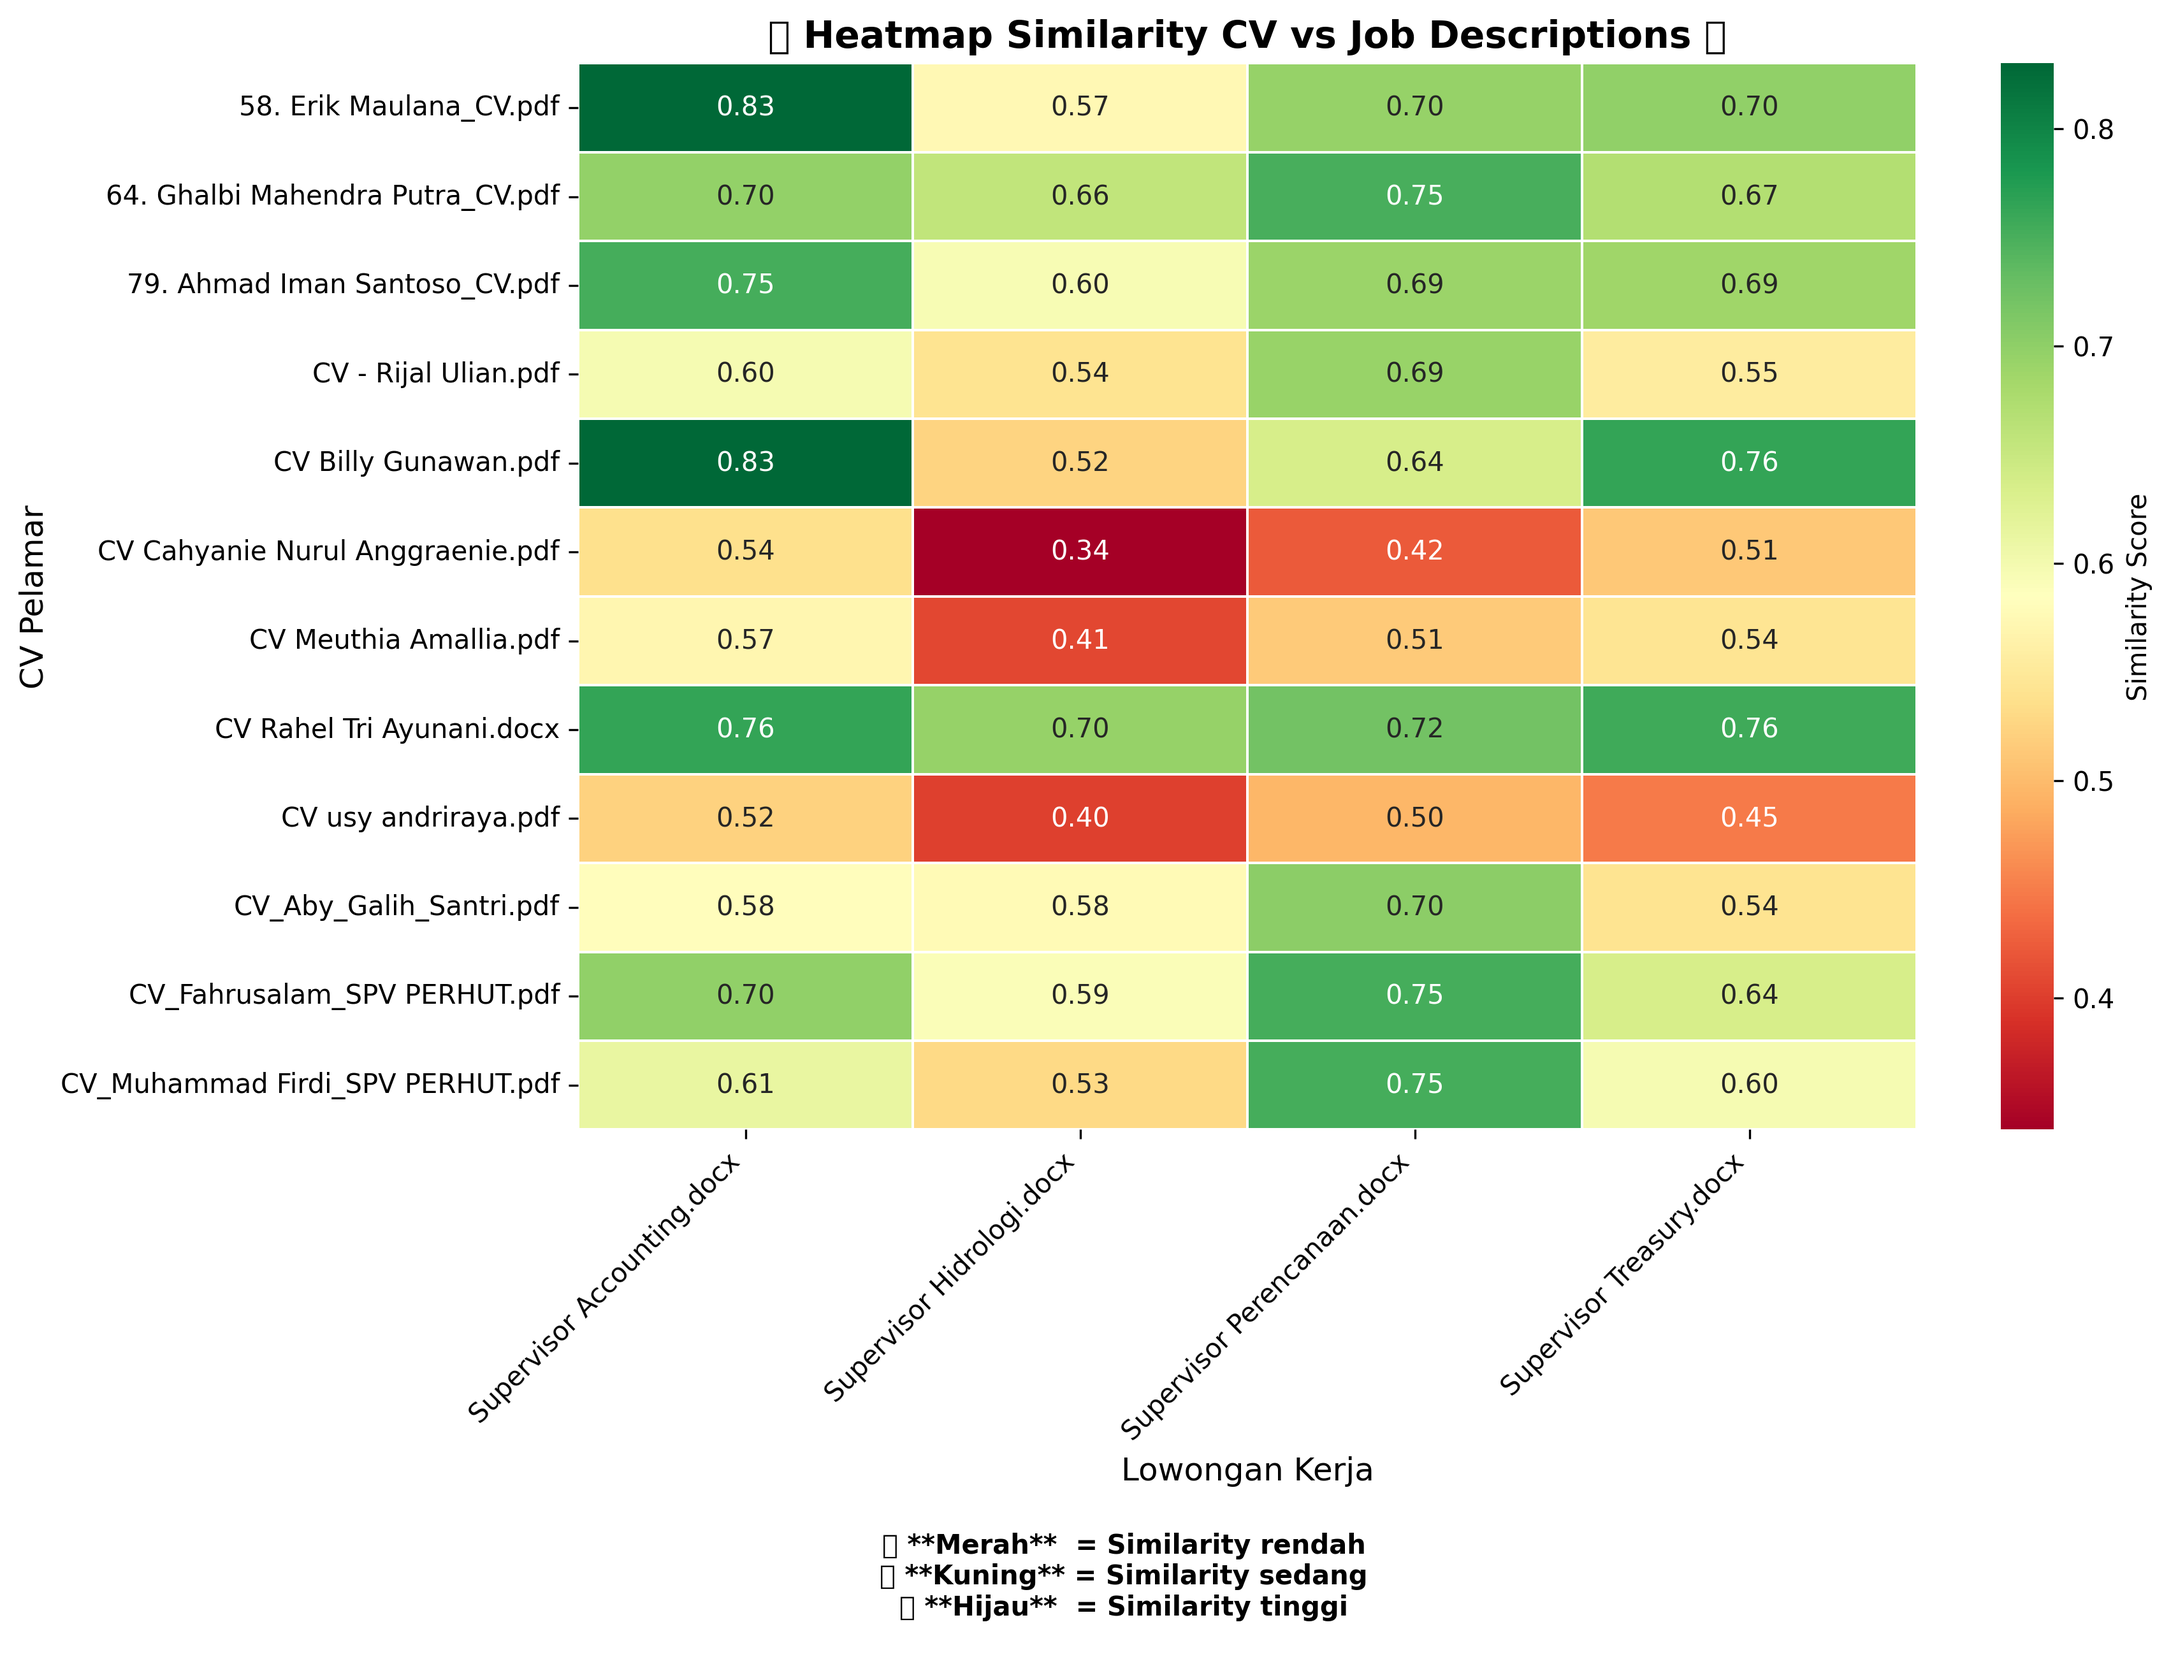
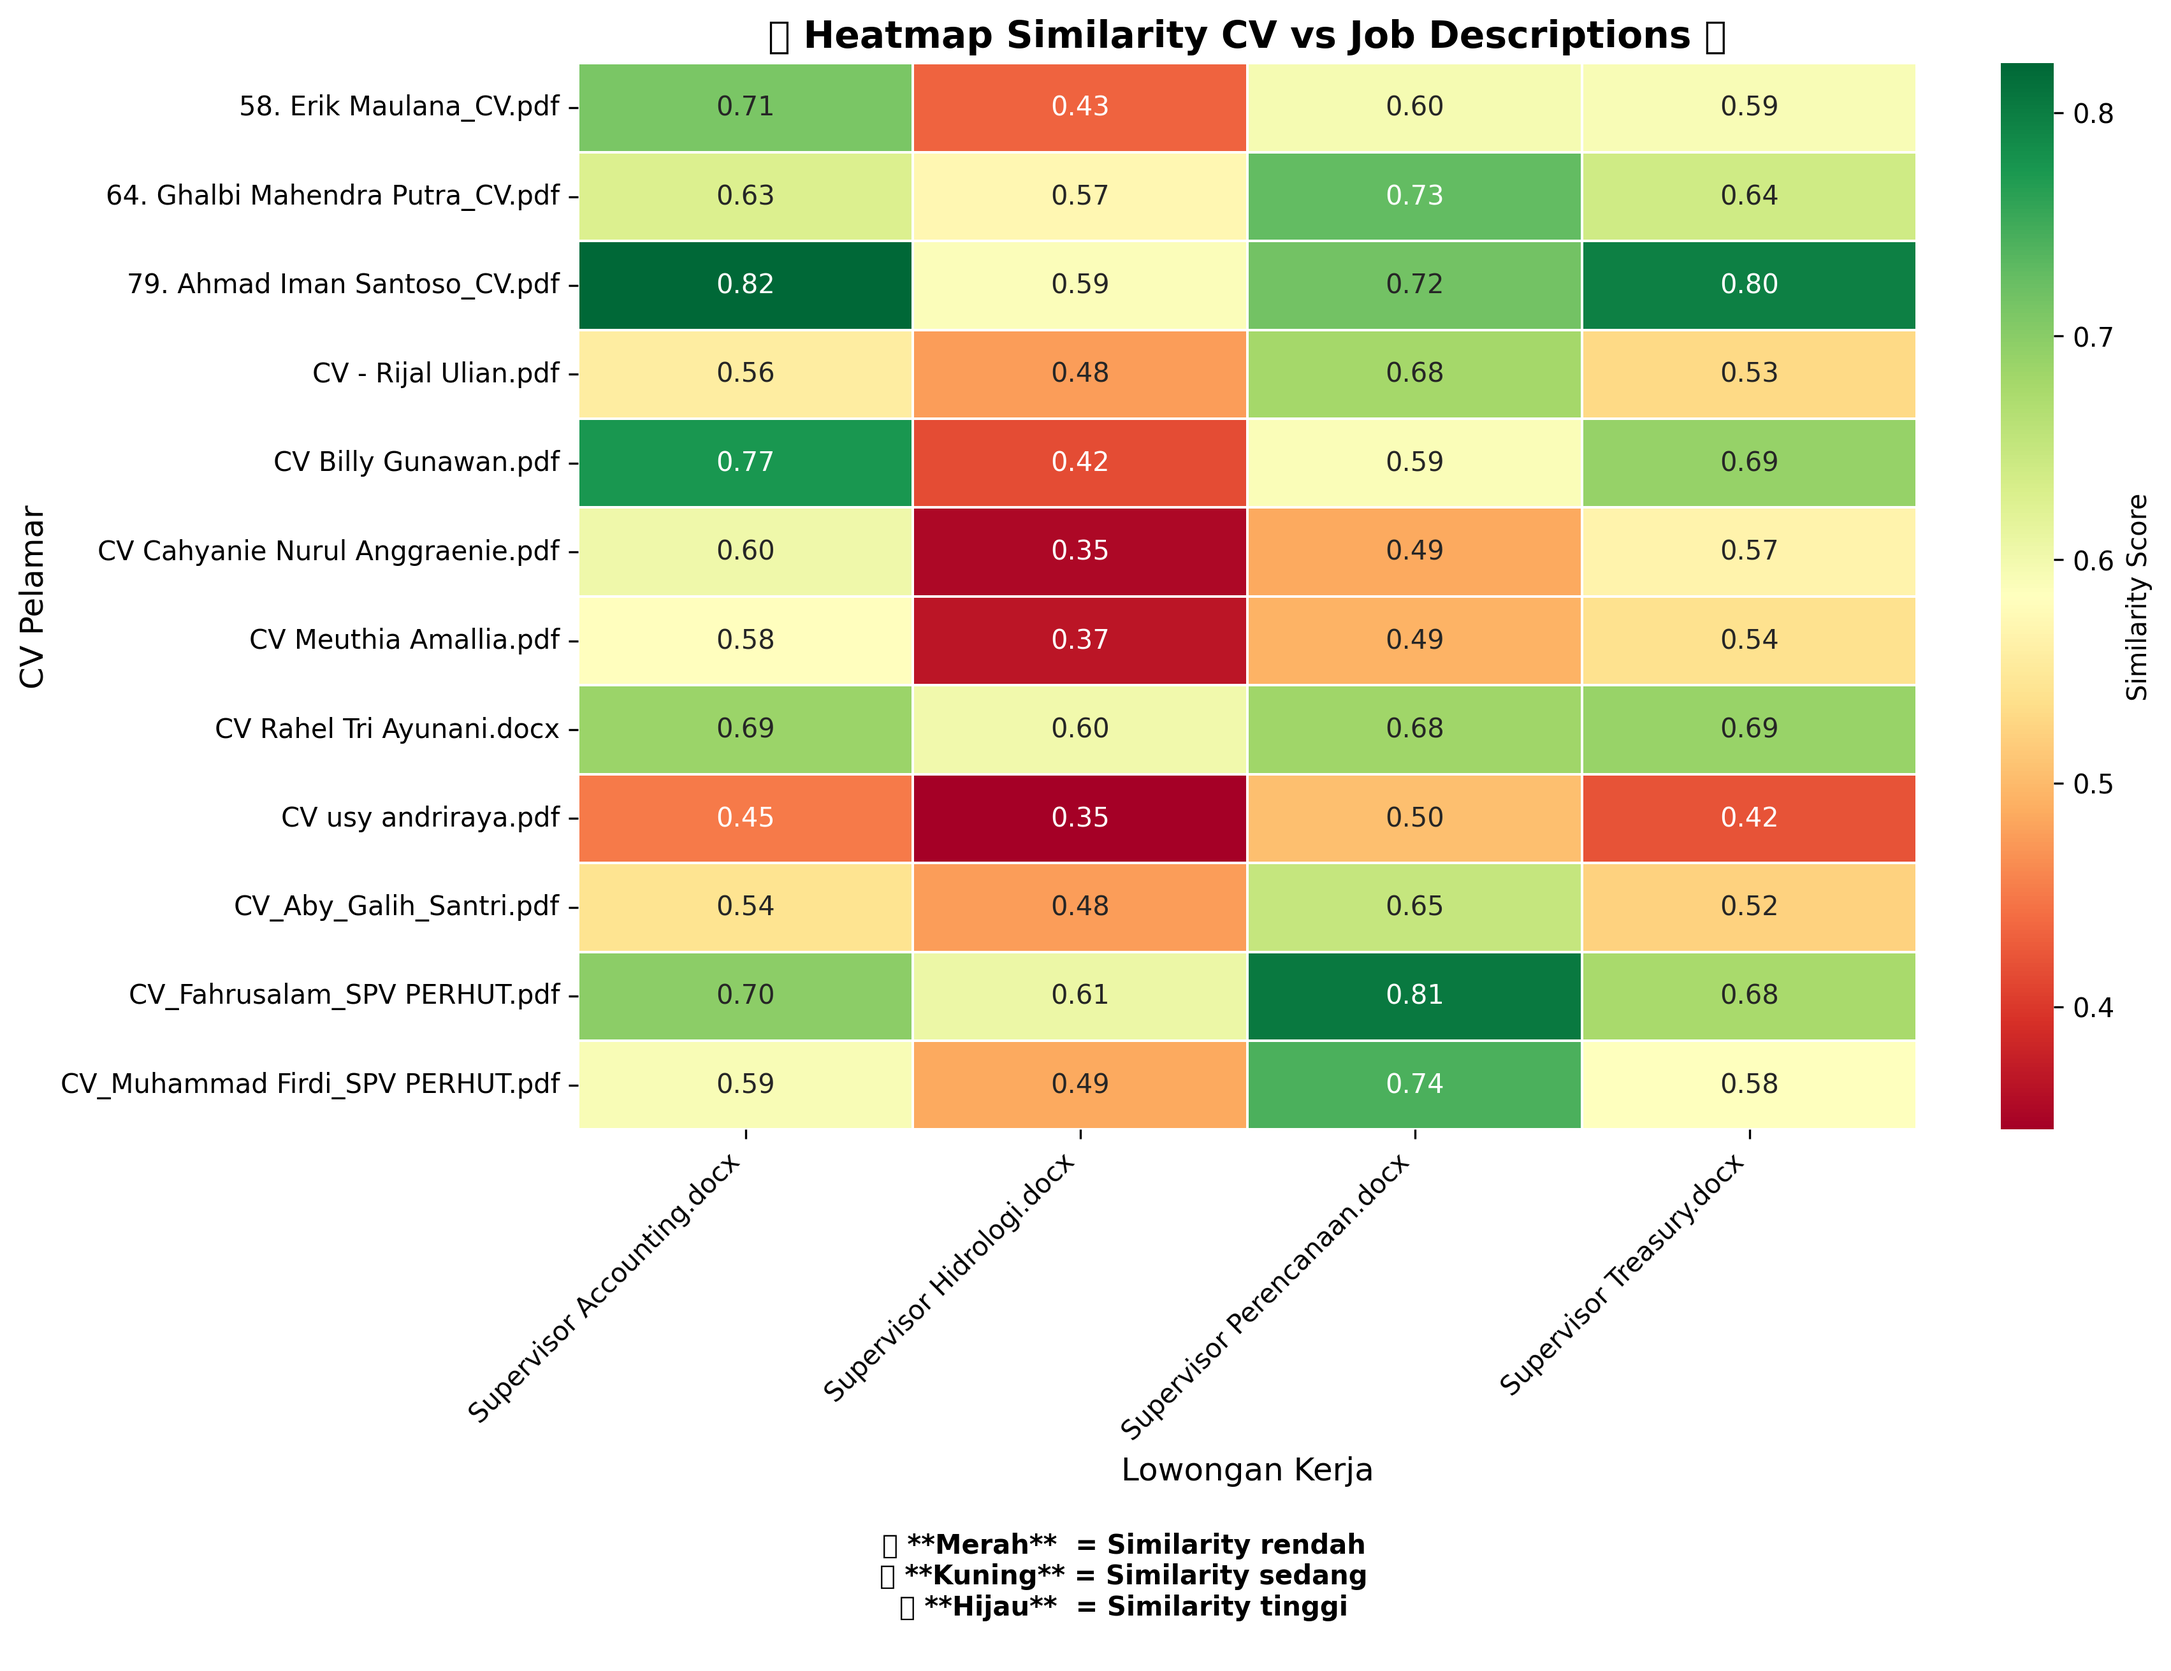
Optimalisasi Extract Text dan Preprocess Text

Changed region(s): [[0.249, 0.0309, 0.9025, 0.6796]]

diff --git a/src/parsing/extract_text.py b/src/parsing/extract_text.py
@@ -1,68 +1,84 @@
 import os
-import fitz  # PyMuPDF untuk PDF
-import docx  # python-docx untuk DOCX
-import pytesseract  # OCR
-import cv2  # OpenCV untuk pemrosesan gambar
-
-# Pastikan Tesseract terpasang di sistem (ubah path sesuai instalasi)
-pytesseract.pytesseract.tesseract_cmd = r"C:\Program Files\Tesseract-OCR\tesseract.exe"
+import pdfplumber
+import fitz  # PyMuPDF
+import docx
+import chardet
 
 def extract_text_from_pdf(pdf_path):
-    """Ekstrak teks dari file PDF."""
-    doc = fitz.open(pdf_path)
-    text = "\n".join([page.get_text("text") for page in doc])
-    return text
+    """Ekstrak teks dari PDF dengan pdfplumber & fallback ke PyMuPDF."""
+    text = ""
+    try:
+        with pdfplumber.open(pdf_path) as pdf:
+            for page in pdf.pages:
+                text += page.extract_text() + "\n"
+    except Exception as e:
+        print(f"⚠ pdfplumber gagal di {pdf_path}, mencoba PyMuPDF... ({e})")
+        try:
+            doc = fitz.open(pdf_path)
+            text = "\n".join([page.get_text("text") for page in doc])
+        except Exception as e:
+            print(f"❌ Gagal ekstrak PDF {pdf_path}: {e}")
+
+    return text.strip()
 
 def extract_text_from_docx(docx_path):
-    """Ekstrak teks dari file DOCX."""
-    doc = docx.Document(docx_path)
-    text = "\n".join([para.text for para in doc.paragraphs])
-    return text
+    """Ekstrak teks dari file DOCX dengan python-docx."""
+    try:
+        doc = docx.Document(docx_path)
+        text = "\n".join([para.text for para in doc.paragraphs])
+        return text.strip()
+    except Exception as e:
+        print(f"❌ Gagal ekstrak DOCX {docx_path}: {e}")
+        return ""
 
-def extract_text_from_image(image_path):
-    """Ekstrak teks dari gambar menggunakan OCR."""
-    img = cv2.imread(image_path)
-    gray = cv2.cvtColor(img, cv2.COLOR_BGR2GRAY)  # Konversi ke grayscale untuk OCR lebih akurat
-    text = pytesseract.image_to_string(gray, lang="eng")  # Bisa pakai "ind" untuk Bahasa Indonesia
-    return text
+def extract_text_from_txt(txt_path):
+    """Ekstrak teks dari file TXT dengan deteksi encoding otomatis."""
+    try:
+        with open(txt_path, "rb") as f:
+            raw_data = f.read()
+            encoding = chardet.detect(raw_data)['encoding'] or "utf-8"
 
-def extract_text(file_path):
-    """Deteksi format file dan ekstrak teksnya."""
+        with open(txt_path, "r", encoding=encoding) as f:
+            return f.read().strip()
+    except Exception as e:
+        print(f"❌ Gagal ekstrak TXT {txt_path}: {e}")
+        return ""
+
+def extract_text_from_file(file_path):
+    """Deteksi format file dan panggil fungsi ekstraksi yang sesuai."""
     if file_path.lower().endswith(".pdf"):
         return extract_text_from_pdf(file_path)
     elif file_path.lower().endswith(".docx"):
         return extract_text_from_docx(file_path)
-    elif file_path.lower().endswith((".png", ".jpg", ".jpeg")):
-        return extract_text_from_image(file_path)
+    elif file_path.lower().endswith(".txt"):
+        return extract_text_from_txt(file_path)
     else:
-        print(f"❌ Format file tidak didukung: {file_path}")
-        return None
+        print(f"⚠ Format tidak dikenali: {file_path}")
+        return ""
 
 def process_folder(input_folder, output_folder):
-    """Memproses semua file dalam folder dan menyimpan hasil ekstraksi."""
+    """Memproses semua file dalam folder dan menyimpan hasil ekstraksi teks."""
     if not os.path.exists(input_folder):
         print(f"⚠ Folder tidak ditemukan: {input_folder}")
         return
-    
+
     os.makedirs(output_folder, exist_ok=True)
 
     for filename in os.listdir(input_folder):
-        file_path = os.path.join(input_folder, filename)
+        input_file_path = os.path.join(input_folder, filename)
         output_file_path = os.path.join(output_folder, filename + ".txt")
 
-        if os.path.isfile(file_path):
-            print(f"📄 Memproses: {filename}")
-            text = extract_text(file_path)
-            if text:
-                with open(output_file_path, "w", encoding="utf-8") as f:
-                    f.write(text)
-                print(f"✅ Teks diekstrak dan disimpan di: {output_file_path}")
+        if os.path.isfile(input_file_path):
+            print(f"📄 Mengekstrak: {filename}")
+            text = extract_text_from_file(input_file_path)
+
+            with open(output_file_path, "w", encoding="utf-8") as f:
+                f.write(text)
+
+            print(f"✅ Teks diekstrak ke: {output_file_path}")
 
 if __name__ == "__main__":
     print("🚀 Memulai ekstraksi teks...")
-
-    # Proses folder resumes dan jobs
     process_folder("data/raw_data/resumes", "data/processed_data/resumes")
     process_folder("data/raw_data/jobs", "data/processed_data/jobs")
-
-    print("🎉 Ekstraksi selesai!")
+    print("🎉 Ekstraksi teks selesai!")

diff --git a/src/preprocessing/preprocess_text.py b/src/preprocessing/preprocess_text.py
@@ -4,39 +4,58 @@ import string
 import nltk
 from nltk.tokenize import word_tokenize
 from nltk.corpus import stopwords
-from langdetect import detect
+from langdetect import detect, DetectorFactory
 from Sastrawi.Stemmer.StemmerFactory import StemmerFactory
 from textblob import Word
+from sklearn.feature_extraction.text import ENGLISH_STOP_WORDS
 
-# Download NLTK resources jika belum ada
+# 🔥 **Download NLTK resources jika belum ada**
 nltk.download('punkt')
 nltk.download('stopwords')
 
-# Buat stemmer Bahasa Indonesia
+# 🔥 **Agar hasil deteksi bahasa lebih konsisten**
+DetectorFactory.seed = 0
+
+# 🔥 **Buat stemmer Bahasa Indonesia**
 factory = StemmerFactory()
 indonesian_stemmer = factory.create_stemmer()
 
-# Load stopwords untuk Bahasa Inggris dan Indonesia
-stop_words_eng = set(stopwords.words('english'))
+# 🔥 **Load stopwords untuk Bahasa Inggris dan Indonesia**
+stop_words_eng = set(stopwords.words('english')).union(ENGLISH_STOP_WORDS)
 stop_words_ind = set(stopwords.words('indonesian'))
 
 def detect_language(text):
     """Deteksi bahasa teks (Indonesia atau Inggris)."""
     try:
-        return detect(text)
+        lang = detect(text)
+        return "id" if lang == "id" else "en"
     except:
         return "unknown"
 
 def clean_text(text):
-    """Bersihkan teks dari karakter tidak perlu."""
-    text = text.lower()  
-    text = re.sub(r'\d+', '', text)  
-    text = text.translate(str.maketrans("", "", string.punctuation))  
-    text = re.sub(r'\s+', ' ', text).strip()  
+    """Membersihkan teks dengan tetap mempertahankan angka penting (IPK, pengalaman, sertifikasi)."""
+    
+    text = text.lower()  # Konversi ke huruf kecil
+    text = re.sub(r'\n|\t', ' ', text)  # Hapus newline & tab
+    
+    # 🔥 **Hapus simbol dan karakter khusus, kecuali yang penting**
+    text = re.sub(r"[^\w\s\.,%-]", " ", text)
+
+    # 🔥 **Hapus nomor telepon & NIK**
+    text = re.sub(r"\b(?:\+62|62|0)?[8][1-9][0-9]{6,11}\b", "", text)
+
+    # 🔥 **Hapus angka yang bukan bagian dari informasi penting**
+    text = re.sub(r"\b\d+\b", lambda x: x.group(0) if re.search(r"(tahun|ipk|sertifikasi|toefl|ielts|ccna|iso|skor)", text, re.IGNORECASE) else "", text)
+
+    # 🔥 **Hapus spasi berlebih**
+    text = re.sub(r"\s+", " ", text).strip()
+    
     return text
+
 
 def preprocess_text(text):
     """Preprocessing teks: cleaning, tokenization, stopword removal, stemming/lemmatization."""
+    
     text = clean_text(text)
     lang = detect_language(text)
 
@@ -51,6 +70,7 @@ def preprocess_text(text):
 
 def process_folder(input_folder, output_folder):
     """Memproses semua file teks dalam folder dan menyimpan hasil preprocessing."""
+    
     if not os.path.exists(input_folder):
         print(f"⚠ Folder tidak ditemukan: {input_folder}")
         return

diff --git a/src/matching/models/similarity.py b/src/matching/models/similarity.py
@@ -87,7 +87,7 @@ def match_resume_to_jobs(resume_text, job_texts):
         sbert_score = sbert_similarity(resume_text, job_text)
 
         # 🔥 **Hitung Final Score dengan bobot masing-masing model**
-        final_score = (0.10 * w2v_score) + (0.20 * ft_score) + (0.70 * sbert_score)
+        final_score = (0.10 * w2v_score) + (0.30 * ft_score) + (0.60 * sbert_score)
 
         # 🔥 Simpan detail setiap skor
         detailed_results.append({
